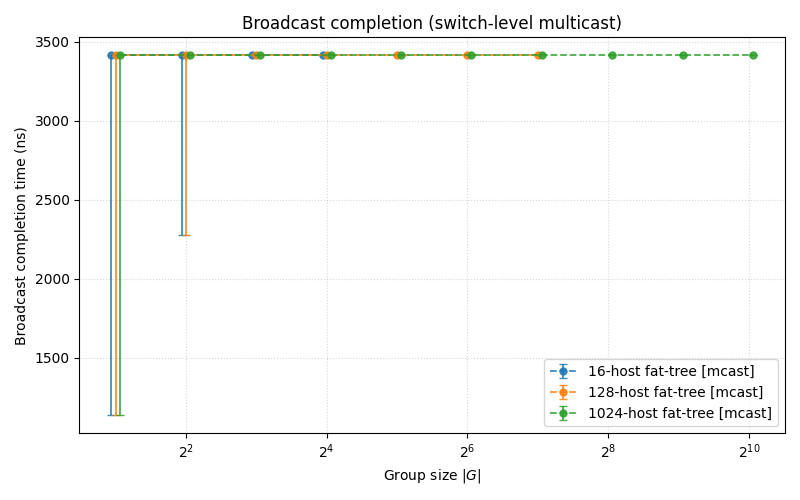
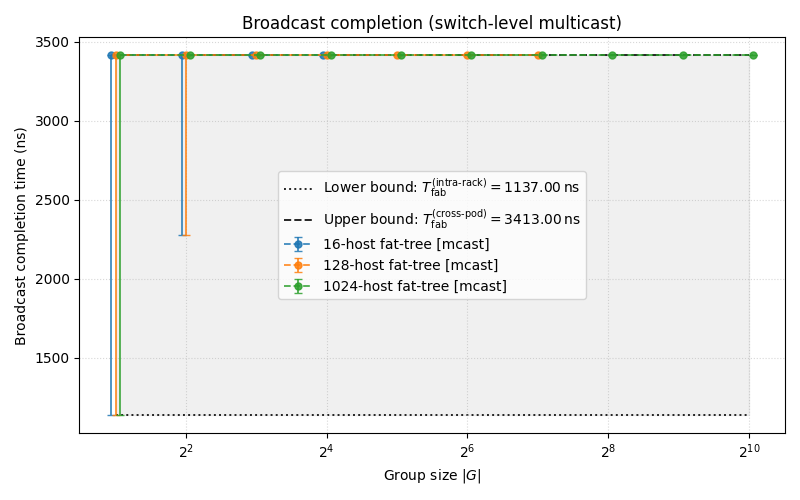
plots: flat T_fabric bounds on mcast completion plot; fix --theory key unpack
--theory unpacked the bucket key as a 2-tuple but it is now
(nodes,group_size,mode); fix. Add intra-rack/cross-pod T_fabric bounds
(t_ser=0 -> flat lines at 1137 and 3413 ns) to the mcast completion plot.

diff --git a/sim/htsim-backend/plotting/plot_bcast_baseline.py b/sim/htsim-backend/plotting/plot_bcast_baseline.py
@@ -267,8 +267,8 @@ def main():
     # bound uses cross-pod T_fabric (the longest). Both share the
     # same per-leg slope t_ser.
     if args.theory:
-        g_min = min(g for (_, g), _ in buckets.items())
-        g_max = max(g for (_, g), _ in buckets.items())
+        g_min = min(k[1] for k in buckets)
+        g_max = max(k[1] for k in buckets)
         if g_min < 1:
             g_min = 1
         log_lo = math.log2(g_min)
